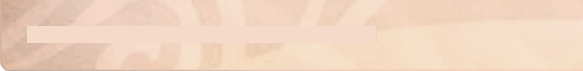
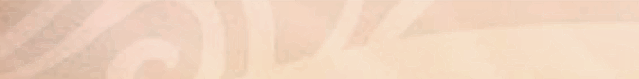
Cleaning the navbar

diff --git a/src/App.css b/src/App.css
@@ -10,13 +10,26 @@
   margin-top: -10px;
 }
 
-.navbar-default .navbar-brand, .navbar-default .navbar-nav > li > a {
-  color: #e3a872;
+.navbar-default .navbar-brand, .navbar-default .navbar-brand:hover, .navbar-default .navbar-nav > li > a {
+  color: #d7a26d;
+  /* Ref: http://bradsknutson.com/blog/css-engraved-text/ */
+  text-shadow: 0px 1px 0px rgba(255,255,255,.3), 0px -1px 0px rgba(0,0,0,.7);
+}
+
+.navbar-default .navbar-nav > li > a:hover {
+  color: #a77e55;
+}
+
+.navbar-default .navbar-nav > .open > a, .navbar-default .navbar-nav > .open > a:hover, .navbar-default .navbar-nav > .open > a:focus {
+  background: none;
+  box-shadow: none;
 }
 
 .navbar {
   background: url('./images/navbar-middle.png') repeat-x;
   background-size: contain;
+  border: none;
+  box-shadow: 0 0 2px 2px #d0a78e;
 }
 
 .navbar::before {
@@ -47,11 +60,18 @@
 }
 
 .navbar .dropdown-menu {
-  background-color: #faeade;
+  background-color: #f9eadd;
+  border-color: #e2ccbe;
 }
 
 .navbar .dropdown-menu > li > a {
   color: #dcb49b;
+  text-shadow: -1px -1px 1px #f0d9c9;
+}
+
+.navbar .dropdown-menu > li > a:hover, .navbar .dropdown-menu > li > a:focus {
+  color: #9a7d6c;
+  background: none;
 }
 
 .navbar .dropdown-menu > li:first-child > a {
@@ -59,8 +79,24 @@
   font-weight: bold;
 }
 
+.navbar .dropdown-menu > li:first-child > a:hover, .navbar .dropdown-menu > li:first-child > a:focus {
+  color: #785235;
+}
+
 .navbar .dropdown-menu > li.dropdown-header {
   color: #cebaaf;
+  font-size: 14px;
+  font-style: italic;
+}
+
+.navbar .dropdown-menu > li > a, .navbar .dropdown-menu > li.dropdown-header {
+  border-bottom: 1px solid #f4d8c7;
+  padding: 7px 0;
+  margin: 0 20px;
+}
+
+.navbar .dropdown-menu > li:last-child > a {
+  border-bottom: none;
 }
 
 .choices {
